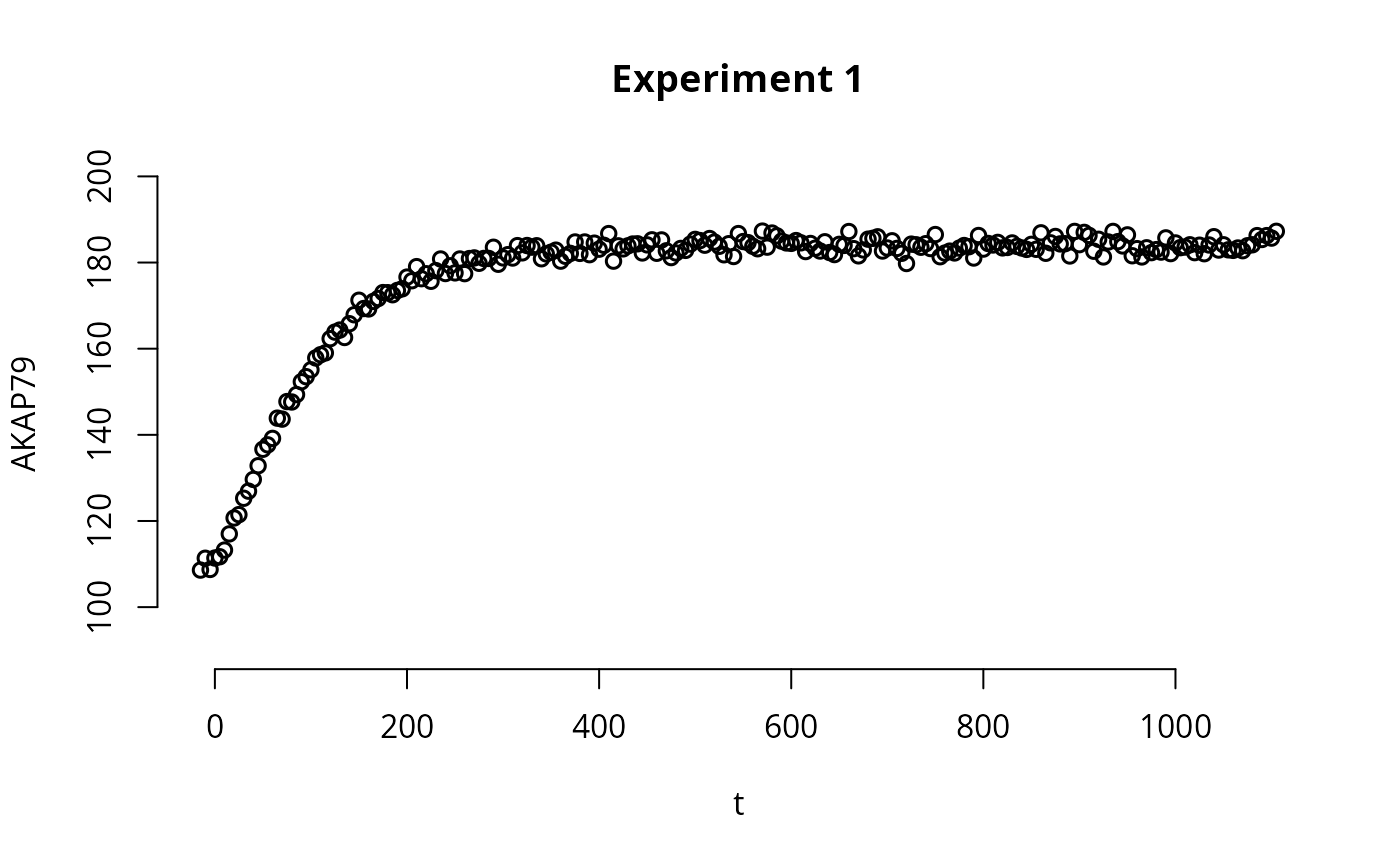
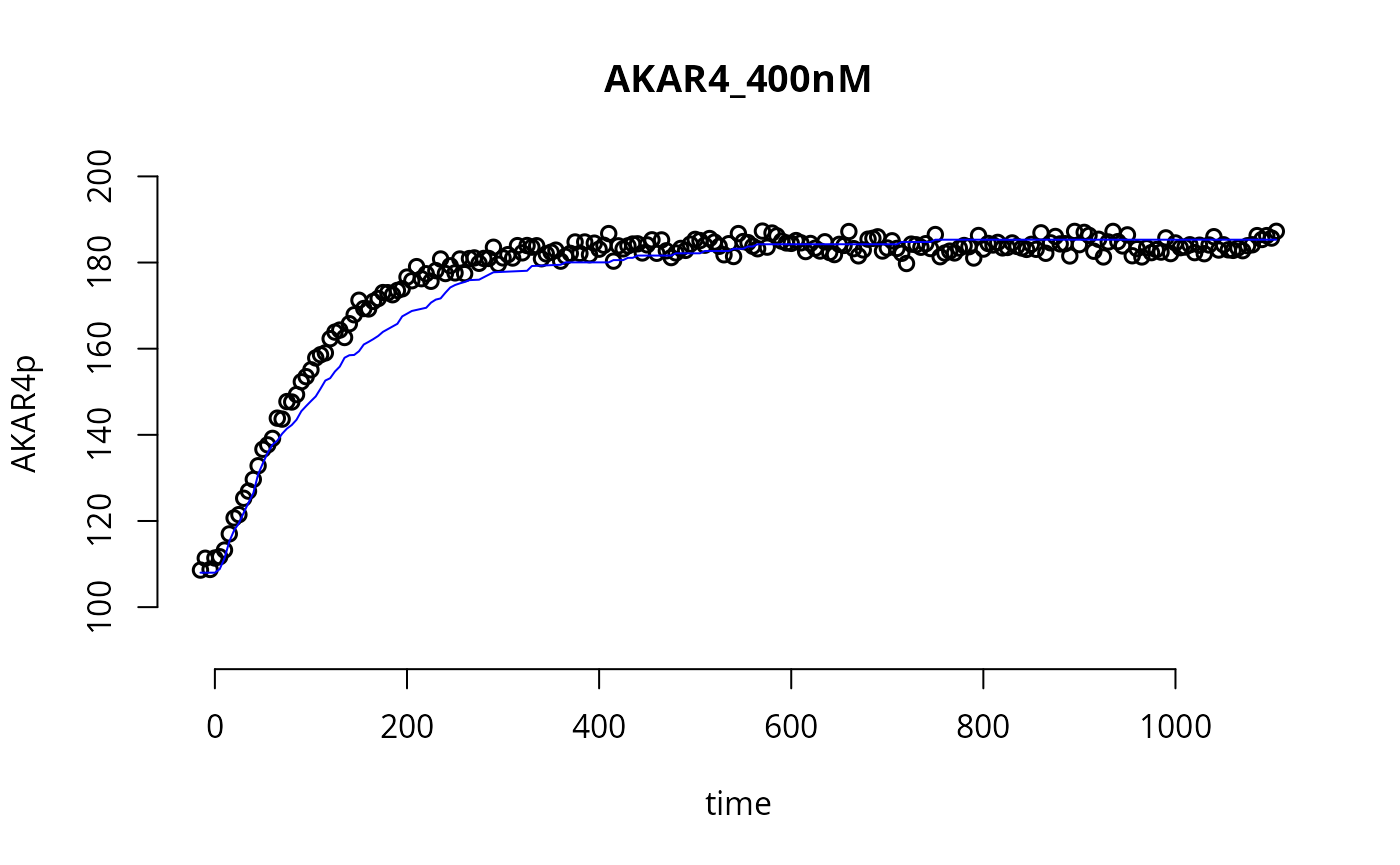
updated the simAKAR4stochastic article with internal simulator

diff --git a/docs/articles/simAKAR4stochastic.html b/docs/articles/simAKAR4stochastic.html
@@ -7,14 +7,13 @@
 <meta name="viewport" content="width=device-width, initial-scale=1, shrink-to-fit=no">
 <meta name="description" content="uqsa">
 <title>Simulation of a Stochastic Model for the AKAR4 reaction network • uqsa</title>
-<script src="../deps/jquery-3.6.0/jquery-3.6.0.min.js"></script><meta name="viewport" content="width=device-width, initial-scale=1, shrink-to-fit=no">
+<script src="../deps/jquery-3.6.1/jquery-3.6.1.min.js"></script><meta name="viewport" content="width=device-width, initial-scale=1, shrink-to-fit=no">
 <link href="../deps/bootstrap-5.3.1/bootstrap.min.css" rel="stylesheet">
 <script src="../deps/bootstrap-5.3.1/bootstrap.bundle.min.js"></script><!-- Font Awesome icons --><link rel="stylesheet" href="https://cdnjs.cloudflare.com/ajax/libs/font-awesome/5.12.1/css/all.min.css" integrity="sha256-mmgLkCYLUQbXn0B1SRqzHar6dCnv9oZFPEC1g1cwlkk=" crossorigin="anonymous">
 <link rel="stylesheet" href="https://cdnjs.cloudflare.com/ajax/libs/font-awesome/5.12.1/css/v4-shims.min.css" integrity="sha256-wZjR52fzng1pJHwx4aV2AO3yyTOXrcDW7jBpJtTwVxw=" crossorigin="anonymous">
-<!-- bootstrap-toc --><script src="https://cdn.jsdelivr.net/gh/afeld/bootstrap-toc@v1.0.1/dist/bootstrap-toc.min.js" integrity="sha256-4veVQbu7//Lk5TSmc7YV48MxtMy98e26cf5MrgZYnwo=" crossorigin="anonymous"></script><!-- headroom.js --><script src="https://cdnjs.cloudflare.com/ajax/libs/headroom/0.11.0/headroom.min.js" integrity="sha256-AsUX4SJE1+yuDu5+mAVzJbuYNPHj/WroHuZ8Ir/CkE0=" crossorigin="anonymous"></script><script src="https://cdnjs.cloudflare.com/ajax/libs/headroom/0.11.0/jQuery.headroom.min.js" integrity="sha256-ZX/yNShbjqsohH1k95liqY9Gd8uOiE1S4vZc+9KQ1K4=" crossorigin="anonymous"></script><!-- clipboard.js --><script src="https://cdnjs.cloudflare.com/ajax/libs/clipboard.js/2.0.11/clipboard.min.js" integrity="sha512-7O5pXpc0oCRrxk8RUfDYFgn0nO1t+jLuIOQdOMRp4APB7uZ4vSjspzp5y6YDtDs4VzUSTbWzBFZ/LKJhnyFOKw==" crossorigin="anonymous" referrerpolicy="no-referrer"></script><!-- search --><script src="https://cdnjs.cloudflare.com/ajax/libs/fuse.js/6.4.6/fuse.js" integrity="sha512-zv6Ywkjyktsohkbp9bb45V6tEMoWhzFzXis+LrMehmJZZSys19Yxf1dopHx7WzIKxr5tK2dVcYmaCk2uqdjF4A==" crossorigin="anonymous"></script><script src="https://cdnjs.cloudflare.com/ajax/libs/autocomplete.js/0.38.0/autocomplete.jquery.min.js" integrity="sha512-GU9ayf+66Xx2TmpxqJpliWbT5PiGYxpaG8rfnBEk1LL8l1KGkRShhngwdXK1UgqhAzWpZHSiYPc09/NwDQIGyg==" crossorigin="anonymous"></script><script src="https://cdnjs.cloudflare.com/ajax/libs/mark.js/8.11.1/mark.min.js" integrity="sha512-5CYOlHXGh6QpOFA/TeTylKLWfB3ftPsde7AnmhuitiTX4K5SqCLBeKro6sPS8ilsz1Q4NRx3v8Ko2IBiszzdww==" crossorigin="anonymous"></script><!-- pkgdown --><script src="../pkgdown.js"></script><meta property="og:title" content="Simulation of a Stochastic Model for the AKAR4 reaction network">
+<!-- bootstrap-toc --><script src="https://cdn.jsdelivr.net/gh/afeld/bootstrap-toc@v1.0.1/dist/bootstrap-toc.min.js" integrity="sha256-4veVQbu7//Lk5TSmc7YV48MxtMy98e26cf5MrgZYnwo=" crossorigin="anonymous"></script><!-- headroom.js --><script src="https://cdnjs.cloudflare.com/ajax/libs/headroom/0.11.0/headroom.min.js" integrity="sha256-AsUX4SJE1+yuDu5+mAVzJbuYNPHj/WroHuZ8Ir/CkE0=" crossorigin="anonymous"></script><script src="https://cdnjs.cloudflare.com/ajax/libs/headroom/0.11.0/jQuery.headroom.min.js" integrity="sha256-ZX/yNShbjqsohH1k95liqY9Gd8uOiE1S4vZc+9KQ1K4=" crossorigin="anonymous"></script><!-- clipboard.js --><script src="https://cdnjs.cloudflare.com/ajax/libs/clipboard.js/2.0.6/clipboard.min.js" integrity="sha256-inc5kl9MA1hkeYUt+EC3BhlIgyp/2jDIyBLS6k3UxPI=" crossorigin="anonymous"></script><!-- search --><script src="https://cdnjs.cloudflare.com/ajax/libs/fuse.js/6.4.6/fuse.js" integrity="sha512-zv6Ywkjyktsohkbp9bb45V6tEMoWhzFzXis+LrMehmJZZSys19Yxf1dopHx7WzIKxr5tK2dVcYmaCk2uqdjF4A==" crossorigin="anonymous"></script><script src="https://cdnjs.cloudflare.com/ajax/libs/autocomplete.js/0.38.0/autocomplete.jquery.min.js" integrity="sha512-GU9ayf+66Xx2TmpxqJpliWbT5PiGYxpaG8rfnBEk1LL8l1KGkRShhngwdXK1UgqhAzWpZHSiYPc09/NwDQIGyg==" crossorigin="anonymous"></script><script src="https://cdnjs.cloudflare.com/ajax/libs/mark.js/8.11.1/mark.min.js" integrity="sha512-5CYOlHXGh6QpOFA/TeTylKLWfB3ftPsde7AnmhuitiTX4K5SqCLBeKro6sPS8ilsz1Q4NRx3v8Ko2IBiszzdww==" crossorigin="anonymous"></script><!-- pkgdown --><script src="../pkgdown.js"></script><meta property="og:title" content="Simulation of a Stochastic Model for the AKAR4 reaction network">
 <meta property="og:description" content="uqsa">
-<!-- mathjax --><script src="https://cdnjs.cloudflare.com/ajax/libs/mathjax/2.7.5/MathJax.js" integrity="sha256-nvJJv9wWKEm88qvoQl9ekL2J+k/RWIsaSScxxlsrv8k=" crossorigin="anonymous"></script><script src="https://cdnjs.cloudflare.com/ajax/libs/mathjax/2.7.5/config/TeX-AMS-MML_HTMLorMML.js" integrity="sha256-84DKXVJXs0/F8OTMzX4UR909+jtl4G7SPypPavF+GfA=" crossorigin="anonymous"></script><!--[if lt IE 9]>
-<script src="https://oss.maxcdn.com/html5shiv/3.7.3/html5shiv.min.js"></script>
+<!-- mathjax --><script src="file:///usr/share/javascript/mathjax/MathJax.js" integrity="sha256-nvJJv9wWKEm88qvoQl9ekL2J+k/RWIsaSScxxlsrv8k=" crossorigin="anonymous"></script><script src="https://cdnjs.cloudflare.com/ajax/libs/mathjax/2.7.5/config/TeX-AMS-MML_HTMLorMML.js" integrity="sha256-84DKXVJXs0/F8OTMzX4UR909+jtl4G7SPypPavF+GfA=" crossorigin="anonymous"></script><!--[if lt IE 9]>
 <script src="https://oss.maxcdn.com/respond/1.4.2/respond.min.js"></script>
 <![endif]-->
 </head>
@@ -22,7 +21,7 @@
     <a href="#main" class="visually-hidden-focusable">Skip to contents</a>
     
 
-    <nav class="navbar fixed-top navbar-light navbar-expand-lg bg-light" data-bs-theme="light"><div class="container">
+    <nav class="navbar fixed-top navbar-light navbar-expand-lg bg-light"><div class="container">
     
     <a class="navbar-brand me-2" href="../index.html">uqsa</a>
 
@@ -177,9 +176,7 @@ the <a href="user_model.html">user model</a> article.</p>
 <span><span class="co">#&gt;     0.2     0.0     0.0     0.4</span></span>
 <span></span>
 <span><span class="co"># pick parameters for simulation</span></span>
-<span><span class="va">p</span> <span class="op">&lt;-</span> <span class="va">SBtab</span><span class="op">$</span><span class="va">Parameter</span><span class="op">[[</span><span class="st">"!DefaultValue"</span><span class="op">]</span><span class="op">]</span></span>
-<span><span class="va">par_names</span> <span class="op">&lt;-</span> <span class="fu"><a href="https://rdrr.io/r/base/colnames.html" class="external-link">rownames</a></span><span class="op">(</span><span class="va">SBtab</span><span class="op">$</span><span class="va">Parameter</span><span class="op">)</span></span>
-<span><span class="fu"><a href="https://rdrr.io/r/base/names.html" class="external-link">names</a></span><span class="op">(</span><span class="va">p</span><span class="op">)</span> <span class="op">&lt;-</span> <span class="va">par_names</span></span>
+<span><span class="va">p</span> <span class="op">&lt;-</span> <span class="fu">SBtabVFGEN</span><span class="fu">::</span><span class="fu"><a href="https://rdrr.io/pkg/SBtabVFGEN/man/sbtab_quantity.html" class="external-link">sbtab_quantity</a></span><span class="op">(</span><span class="va">SBtab</span><span class="op">$</span><span class="va">Parameter</span><span class="op">)</span></span>
 <span><span class="fu"><a href="https://rdrr.io/r/base/print.html" class="external-link">print</a></span><span class="op">(</span><span class="va">p</span><span class="op">)</span></span>
 <span><span class="co">#&gt; kf_C_AKAR4 kb_C_AKAR4 kcat_AKARp </span></span>
 <span><span class="co">#&gt;      0.018      0.106     10.200</span></span></code></pre></div>
@@ -192,45 +189,97 @@ the <a href="user_model.html">user model</a> article.</p>
 experiment <code>e</code> (i.e., same initial conditions, same inputs),
 but for user supplied parameters.</p>
 <div class="sourceCode" id="cb4"><pre class="downlit sourceCode r">
-<code class="sourceCode R"><span><span class="va">exp_ind</span> <span class="op">&lt;-</span> <span class="fl">1</span> <span class="co">#index of the experiment to consider</span></span>
-<span><span class="va">e</span> <span class="op">&lt;-</span> <span class="va">experiments</span><span class="op">[</span><span class="va">exp_ind</span><span class="op">]</span></span>
-<span></span>
-<span><span class="co"># generate a function (s) that simulates a trajectory given a parameter in input</span></span>
-<span><span class="va">s</span> <span class="op">&lt;-</span> <span class="fu"><a href="../reference/simulator.stoch.html">simulator.stoch</a></span><span class="op">(</span>experiment <span class="op">=</span> <span class="va">e</span>, model.tab <span class="op">=</span> <span class="va">SBtab</span>, vol <span class="op">=</span> <span class="fl">4e-16</span>, nStochSim <span class="op">=</span> <span class="fl">3</span>, outputFunction<span class="op">=</span><span class="va">AKAR4_func</span><span class="op">)</span></span>
+<code class="sourceCode R"><span><span class="co"># generate a function (s) that simulates a trajectory given a parameter in input</span></span>
+<span><span class="va">ssa2</span> <span class="op">&lt;-</span> <span class="fu"><a href="../reference/simulator.stoch.html">simulator.stoch</a></span><span class="op">(</span><span class="va">experiments</span><span class="op">[</span><span class="fl">1</span><span class="op">]</span>, model.tab <span class="op">=</span> <span class="va">SBtab</span>, vol <span class="op">=</span> <span class="fl">4e-16</span>, nStochSim <span class="op">=</span> <span class="fl">3</span>, outputFunction<span class="op">=</span><span class="va">AKAR4_func</span><span class="op">)</span></span>
 <span><span class="co"># vol indicates the volume in m^3 where the reactions take place</span></span>
 <span><span class="co"># nStochSim indicates how many times we simulate the stochastic model; the output trajectory is the average of all (in this case nStochSim = 3) the simulated trajectories</span></span>
 <span></span>
 <span><span class="co"># simulate a trajectory (y) given parameter p</span></span>
-<span><span class="va">y</span> <span class="op">&lt;-</span> <span class="fu">s</span><span class="op">(</span><span class="va">p</span><span class="op">)</span></span></code></pre></div>
+<span><span class="va">y_ssa2</span> <span class="op">&lt;-</span> <span class="fu">ssa2</span><span class="op">(</span><span class="va">p</span><span class="op">)</span></span></code></pre></div>
 </div>
 <div class="section level2">
 <h2 id="plot">Plot<a class="anchor" aria-label="anchor" href="#plot"></a>
 </h2>
 <div class="sourceCode" id="cb5"><pre class="downlit sourceCode r">
 <code class="sourceCode R"><span><span class="fu"><a href="https://rdrr.io/r/graphics/par.html" class="external-link">par</a></span><span class="op">(</span>bty<span class="op">=</span><span class="st">'n'</span>,xaxp<span class="op">=</span><span class="fu"><a href="https://rdrr.io/r/base/c.html" class="external-link">c</a></span><span class="op">(</span><span class="fl">80</span>,<span class="fl">120</span>,<span class="fl">4</span><span class="op">)</span><span class="op">)</span></span>
-<span><span class="fu"><a href="https://rdrr.io/r/graphics/plot.default.html" class="external-link">plot</a></span><span class="op">(</span><span class="va">e</span><span class="op">[[</span><span class="fl">1</span><span class="op">]</span><span class="op">]</span><span class="op">$</span><span class="va">outputTimes</span>, <span class="va">e</span><span class="op">[[</span><span class="fl">1</span><span class="op">]</span><span class="op">]</span><span class="op">$</span><span class="va">outputValues</span><span class="op">$</span><span class="va">AKAR4pOUT</span>,ylim<span class="op">=</span><span class="fu"><a href="https://rdrr.io/r/base/c.html" class="external-link">c</a></span><span class="op">(</span><span class="fl">90</span>,<span class="fl">200</span><span class="op">)</span>, ylab<span class="op">=</span><span class="st">"AKAP79"</span>,</span>
-<span>     xlab<span class="op">=</span><span class="st">"t"</span>,</span>
-<span>     main<span class="op">=</span><span class="fu"><a href="https://rdrr.io/r/base/sprintf.html" class="external-link">sprintf</a></span><span class="op">(</span><span class="st">"Experiment %i"</span>,<span class="va">exp_ind</span><span class="op">)</span>,</span>
-<span>     lwd<span class="op">=</span><span class="fl">1.5</span><span class="op">)</span></span>
-<span><span class="fu"><a href="https://rdrr.io/r/graphics/lines.html" class="external-link">lines</a></span><span class="op">(</span><span class="va">e</span><span class="op">$</span><span class="va">outputTimes</span>, <span class="va">y</span><span class="op">$</span><span class="va">output</span>, col<span class="op">=</span><span class="st">"blue"</span><span class="op">)</span></span></code></pre></div>
+<span><span class="fu"><a href="https://rdrr.io/r/graphics/plot.default.html" class="external-link">plot</a></span><span class="op">(</span></span>
+<span>    <span class="va">experiments</span><span class="op">[[</span><span class="fl">1</span><span class="op">]</span><span class="op">]</span><span class="op">$</span><span class="va">outputTimes</span>,</span>
+<span>    <span class="va">experiments</span><span class="op">[[</span><span class="fl">1</span><span class="op">]</span><span class="op">]</span><span class="op">$</span><span class="va">outputValues</span><span class="op">$</span><span class="va">AKAR4pOUT</span>,</span>
+<span>    ylim<span class="op">=</span><span class="fu"><a href="https://rdrr.io/r/base/c.html" class="external-link">c</a></span><span class="op">(</span><span class="fl">90</span>,<span class="fl">200</span><span class="op">)</span>, ylab<span class="op">=</span><span class="st">"AKAR4p"</span>, xlab<span class="op">=</span><span class="st">"time"</span>,</span>
+<span>    main<span class="op">=</span><span class="fu"><a href="https://rdrr.io/r/base/names.html" class="external-link">names</a></span><span class="op">(</span><span class="va">experiments</span><span class="op">)</span><span class="op">[</span><span class="fl">1</span><span class="op">]</span>,</span>
+<span>    lwd<span class="op">=</span><span class="fl">1.5</span><span class="op">)</span></span>
+<span><span class="fu"><a href="https://rdrr.io/r/graphics/lines.html" class="external-link">lines</a></span><span class="op">(</span><span class="va">experiments</span><span class="op">[[</span><span class="fl">1</span><span class="op">]</span><span class="op">]</span><span class="op">$</span><span class="va">outputTimes</span>, <span class="fu"><a href="https://rdrr.io/r/base/numeric.html" class="external-link">as.numeric</a></span><span class="op">(</span><span class="va">y_ssa2</span><span class="op">[[</span><span class="fl">1</span><span class="op">]</span><span class="op">]</span><span class="op">$</span><span class="va">output</span><span class="op">)</span>, col<span class="op">=</span><span class="st">"blue"</span><span class="op">)</span></span></code></pre></div>
 <p><img src="simAKAR4stochastic_files/figure-html/plotting-1.png" width="700"></p>
 </div>
 <div class="section level2">
 <h2 id="show-results-via-ggplot2">Show Results via <code>ggplot2</code><a class="anchor" aria-label="anchor" href="#show-results-via-ggplot2"></a>
 </h2>
 <div class="sourceCode" id="cb6"><pre class="downlit sourceCode r">
-<code class="sourceCode R"><span><span class="kw"><a href="https://rdrr.io/r/base/library.html" class="external-link">require</a></span><span class="op">(</span><span class="va"><a href="https://ggplot2.tidyverse.org" class="external-link">ggplot2</a></span><span class="op">)</span></span>
-<span><span class="co">#&gt; Loading required package: ggplot2</span></span>
-<span></span>
-<span><span class="va">D</span><span class="op">&lt;-</span><span class="fu"><a href="https://rdrr.io/r/base/data.frame.html" class="external-link">data.frame</a></span><span class="op">(</span>time<span class="op">=</span><span class="va">experiments</span><span class="op">[[</span><span class="va">exp_ind</span><span class="op">]</span><span class="op">]</span><span class="op">$</span><span class="va">outputTime</span>,</span>
-<span>              AKAP79<span class="op">=</span><span class="va">experiments</span><span class="op">[[</span><span class="va">exp_ind</span><span class="op">]</span><span class="op">]</span><span class="op">$</span><span class="va">outputValues</span><span class="op">$</span><span class="va">AKAR4pOUT</span>,</span>
-<span>              AKAP79ERR<span class="op">=</span><span class="va">experiments</span><span class="op">[[</span><span class="va">exp_ind</span><span class="op">]</span><span class="op">]</span><span class="op">$</span><span class="va">errorValues</span><span class="op">$</span><span class="va">AKAR4pOUT</span>,</span>
-<span>              sim<span class="op">=</span><span class="va">y</span><span class="op">[[</span><span class="fl">1</span><span class="op">]</span><span class="op">]</span><span class="op">$</span><span class="va">output</span><span class="op">)</span></span>
+<code class="sourceCode R"><span><span class="kw">if</span> <span class="op">(</span><span class="kw"><a href="https://rdrr.io/r/base/library.html" class="external-link">require</a></span><span class="op">(</span><span class="va"><a href="https://ggplot2.tidyverse.org" class="external-link">ggplot2</a></span><span class="op">)</span><span class="op">)</span><span class="op">{</span></span>
+<span><span class="va">D</span><span class="op">&lt;-</span><span class="fu"><a href="https://rdrr.io/r/base/data.frame.html" class="external-link">data.frame</a></span><span class="op">(</span>time<span class="op">=</span><span class="va">experiments</span><span class="op">[[</span><span class="fl">1</span><span class="op">]</span><span class="op">]</span><span class="op">$</span><span class="va">outputTime</span>,</span>
+<span>              AKAR4p<span class="op">=</span><span class="va">experiments</span><span class="op">[[</span><span class="fl">1</span><span class="op">]</span><span class="op">]</span><span class="op">$</span><span class="va">outputValues</span><span class="op">$</span><span class="va">AKAR4pOUT</span>,</span>
+<span>              AKAR4pERR<span class="op">=</span><span class="va">experiments</span><span class="op">[[</span><span class="fl">1</span><span class="op">]</span><span class="op">]</span><span class="op">$</span><span class="va">errorValues</span><span class="op">$</span><span class="va">AKAR4pOUT</span>,</span>
+<span>              sim<span class="op">=</span><span class="va">y_ssa2</span><span class="op">[[</span><span class="fl">1</span><span class="op">]</span><span class="op">]</span><span class="op">$</span><span class="va">output</span><span class="op">)</span></span>
 <span><span class="fu"><a href="https://ggplot2.tidyverse.org/reference/ggplot.html" class="external-link">ggplot</a></span><span class="op">(</span><span class="va">D</span><span class="op">)</span> <span class="op">+</span></span>
-<span>  <span class="fu"><a href="https://ggplot2.tidyverse.org/reference/geom_linerange.html" class="external-link">geom_linerange</a></span><span class="op">(</span>mapping<span class="op">=</span><span class="fu"><a href="https://ggplot2.tidyverse.org/reference/aes.html" class="external-link">aes</a></span><span class="op">(</span>x<span class="op">=</span><span class="va">time</span>,y<span class="op">=</span><span class="va">AKAP79</span>,ymin<span class="op">=</span><span class="va">AKAP79</span><span class="op">-</span><span class="va">AKAP79ERR</span>,ymax<span class="op">=</span><span class="va">AKAP79</span><span class="op">+</span><span class="va">AKAP79ERR</span><span class="op">)</span>,na.rm<span class="op">=</span><span class="cn">TRUE</span><span class="op">)</span> <span class="op">+</span></span>
-<span>  <span class="fu"><a href="https://ggplot2.tidyverse.org/reference/geom_point.html" class="external-link">geom_point</a></span><span class="op">(</span>mapping<span class="op">=</span><span class="fu"><a href="https://ggplot2.tidyverse.org/reference/aes.html" class="external-link">aes</a></span><span class="op">(</span>x<span class="op">=</span><span class="va">time</span>,y<span class="op">=</span><span class="va">AKAP79</span><span class="op">)</span>,na.rm<span class="op">=</span><span class="cn">TRUE</span><span class="op">)</span> <span class="op">+</span></span>
-<span>  <span class="fu"><a href="https://ggplot2.tidyverse.org/reference/geom_path.html" class="external-link">geom_line</a></span><span class="op">(</span>mapping<span class="op">=</span><span class="fu"><a href="https://ggplot2.tidyverse.org/reference/aes.html" class="external-link">aes</a></span><span class="op">(</span>x<span class="op">=</span><span class="va">time</span>,y<span class="op">=</span><span class="va">sim</span><span class="op">)</span>,color<span class="op">=</span><span class="st">"purple"</span>,lwd<span class="op">=</span><span class="fl">1.2</span><span class="op">)</span></span></code></pre></div>
-<p><img src="simAKAR4stochastic_files/figure-html/ggplot-1.png" width="700"></p>
+<span>  <span class="fu"><a href="https://ggplot2.tidyverse.org/reference/geom_linerange.html" class="external-link">geom_linerange</a></span><span class="op">(</span>mapping<span class="op">=</span><span class="fu"><a href="https://ggplot2.tidyverse.org/reference/aes.html" class="external-link">aes</a></span><span class="op">(</span>x<span class="op">=</span><span class="va">time</span>,y<span class="op">=</span><span class="va">AKAR4p</span>,ymin<span class="op">=</span><span class="va">AKAR4p</span><span class="op">-</span><span class="va">AKAR4pERR</span>,ymax<span class="op">=</span><span class="va">AKAR4p</span><span class="op">+</span><span class="va">AKAR4pERR</span><span class="op">)</span>,na.rm<span class="op">=</span><span class="cn">TRUE</span><span class="op">)</span> <span class="op">+</span></span>
+<span>  <span class="fu"><a href="https://ggplot2.tidyverse.org/reference/geom_point.html" class="external-link">geom_point</a></span><span class="op">(</span>mapping<span class="op">=</span><span class="fu"><a href="https://ggplot2.tidyverse.org/reference/aes.html" class="external-link">aes</a></span><span class="op">(</span>x<span class="op">=</span><span class="va">time</span>,y<span class="op">=</span><span class="va">AKAR4p</span><span class="op">)</span>,na.rm<span class="op">=</span><span class="cn">TRUE</span><span class="op">)</span> <span class="op">+</span></span>
+<span>  <span class="fu"><a href="https://ggplot2.tidyverse.org/reference/geom_path.html" class="external-link">geom_line</a></span><span class="op">(</span>mapping<span class="op">=</span><span class="fu"><a href="https://ggplot2.tidyverse.org/reference/aes.html" class="external-link">aes</a></span><span class="op">(</span>x<span class="op">=</span><span class="va">time</span>,y<span class="op">=</span><span class="va">sim</span><span class="op">)</span>,color<span class="op">=</span><span class="st">"purple"</span>,lwd<span class="op">=</span><span class="fl">1.2</span><span class="op">)</span></span>
+<span><span class="op">}</span></span>
+<span><span class="co">#&gt; Loading required package: ggplot2</span></span></code></pre></div>
+<p><img src="simAKAR4stochastic_files/figure-html/ggplot2-1.png" width="700"></p>
+</div>
+<div class="section level2">
+<h2 id="built-in-simulator">Built-in simulator<a class="anchor" aria-label="anchor" href="#built-in-simulator"></a>
+</h2>
+<p>This package (<code>uqsa</code>) has a built-in stochastic simulator
+which assumes that the model in question comes from an SBtab file and is
+formulated with concentrations and kinetic laws.</p>
+<p>We auto-generate C code, which uses the kinetic laws, but rescales
+all parameters internally to have the unit <code>1/s</code> and all
+compound species are rescaled to be in particle counts. So, the internal
+simulator can be used with the list of experiments that we use for ODE
+models, with no changes.</p>
+<div class="sourceCode" id="cb7"><pre class="downlit sourceCode r">
+<code class="sourceCode R"><span><span class="va">C</span> <span class="op">&lt;-</span> <span class="fu"><a href="../reference/generateGillespieCode.html">generateGillespieCode</a></span><span class="op">(</span><span class="va">SBtab</span><span class="op">)</span></span>
+<span><span class="fu"><a href="https://rdrr.io/r/base/cat.html" class="external-link">cat</a></span><span class="op">(</span><span class="va">C</span>,sep<span class="op">=</span><span class="st">"\n"</span>,file<span class="op">=</span><span class="st">"AKAR4_st.c"</span><span class="op">)</span></span></code></pre></div>
+<p>We compile that model to a shared library:</p>
+<div class="sourceCode" id="cb8"><pre class="sourceCode sh"><code class="sourceCode bash"><span id="cb8-1"><a href="#cb8-1" tabindex="-1"></a><span class="fu">cc</span> <span class="at">-shared</span> <span class="at">-fPIC</span> <span class="at">-O2</span> <span class="at">-o</span> akar4-st.so AKAR4_st.c <span class="at">-lm</span></span></code></pre></div>
+<p>And next we simulate this compiled model:</p>
+<div class="sourceCode" id="cb9"><pre class="downlit sourceCode r">
+<code class="sourceCode R"><span><span class="va">st</span> <span class="op">&lt;-</span> <span class="fu">uqsa</span><span class="fu">::</span><span class="fu"><a href="../reference/simstoch.html">simstoch</a></span><span class="op">(</span><span class="va">experiments</span>,model.so<span class="op">=</span><span class="st">"./akar4-st.so"</span><span class="op">)</span></span>
+<span><span class="va">y</span> <span class="op">&lt;-</span> <span class="fu">st</span><span class="op">(</span><span class="va">p</span><span class="op">)</span></span></code></pre></div>
+<p>And also plot the results:</p>
+<div class="sourceCode" id="cb10"><pre class="downlit sourceCode r">
+<code class="sourceCode R"><span><span class="va">tm</span> <span class="op">&lt;-</span> <span class="va">experiments</span><span class="op">[[</span><span class="fl">1</span><span class="op">]</span><span class="op">]</span><span class="op">$</span><span class="va">outputTimes</span></span>
+<span><span class="va">ov</span> <span class="op">&lt;-</span> <span class="va">experiments</span><span class="op">[[</span><span class="fl">1</span><span class="op">]</span><span class="op">]</span><span class="op">$</span><span class="va">outputValues</span><span class="op">$</span><span class="va">AKAR4pOUT</span></span>
+<span><span class="va">ev</span> <span class="op">&lt;-</span> <span class="va">experiments</span><span class="op">[[</span><span class="fl">1</span><span class="op">]</span><span class="op">]</span><span class="op">$</span><span class="va">errorValues</span><span class="op">$</span><span class="va">AKAR4pOUT</span></span>
+<span><span class="fu"><a href="https://rdrr.io/r/graphics/par.html" class="external-link">par</a></span><span class="op">(</span>bty<span class="op">=</span><span class="st">"n"</span><span class="op">)</span></span>
+<span><span class="fu"><a href="https://rdrr.io/r/graphics/plot.default.html" class="external-link">plot</a></span><span class="op">(</span><span class="va">tm</span>,<span class="va">ov</span>,xlab<span class="op">=</span><span class="st">"time"</span>,ylab<span class="op">=</span><span class="st">"AKAR4p"</span>,main<span class="op">=</span><span class="fu"><a href="https://rdrr.io/r/base/names.html" class="external-link">names</a></span><span class="op">(</span><span class="va">experiments</span><span class="op">)</span><span class="op">[</span><span class="fl">1</span><span class="op">]</span>,ylim<span class="op">=</span><span class="fu"><a href="https://rdrr.io/r/base/c.html" class="external-link">c</a></span><span class="op">(</span><span class="fl">90</span>,<span class="fl">210</span><span class="op">)</span><span class="op">)</span></span>
+<span><span class="fu"><a href="https://rdrr.io/r/graphics/arrows.html" class="external-link">arrows</a></span><span class="op">(</span><span class="va">tm</span>,<span class="va">ov</span>,<span class="va">tm</span>,<span class="va">ov</span><span class="op">+</span><span class="va">ev</span>,angle<span class="op">=</span><span class="fl">90</span>,length<span class="op">=</span><span class="fl">0.02</span><span class="op">)</span></span>
+<span><span class="fu"><a href="https://rdrr.io/r/graphics/arrows.html" class="external-link">arrows</a></span><span class="op">(</span><span class="va">tm</span>,<span class="va">ov</span>,<span class="va">tm</span>,<span class="va">ov</span><span class="op">-</span><span class="va">ev</span>,angle<span class="op">=</span><span class="fl">90</span>,length<span class="op">=</span><span class="fl">0.02</span><span class="op">)</span></span>
+<span><span class="fu"><a href="https://rdrr.io/r/graphics/lines.html" class="external-link">lines</a></span><span class="op">(</span><span class="va">tm</span>,<span class="va">y</span><span class="op">[[</span><span class="fl">1</span><span class="op">]</span><span class="op">]</span><span class="op">$</span><span class="va">func</span><span class="op">[</span><span class="st">"AKAR4pOUT"</span>,<span class="op">]</span>,lwd<span class="op">=</span><span class="fl">2</span><span class="op">)</span></span></code></pre></div>
+<p><img src="simAKAR4stochastic_files/figure-html/plot_simstoch-1.png" width="700"></p>
+<div class="section level3">
+<h3 id="benchmark">Benchmark<a class="anchor" aria-label="anchor" href="#benchmark"></a>
+</h3>
+<p>Here we test which of the two simulates faster:</p>
+<div class="sourceCode" id="cb11"><pre class="downlit sourceCode r">
+<code class="sourceCode R"><span><span class="kw">if</span> <span class="op">(</span><span class="kw"><a href="https://rdrr.io/r/base/library.html" class="external-link">require</a></span><span class="op">(</span><span class="va"><a href="http://rbenchmark.googlecode.com" class="external-link">rbenchmark</a></span><span class="op">)</span><span class="op">)</span><span class="op">{</span></span>
+<span>    <span class="va">BM</span> <span class="op">&lt;-</span> <span class="fu"><a href="https://rdrr.io/pkg/rbenchmark/man/benchmark.html" class="external-link">benchmark</a></span><span class="op">(</span></span>
+<span>        GillespieSSA2 <span class="op">=</span> <span class="op">{</span><span class="va">y1</span><span class="op">&lt;-</span><span class="fu">ssa2</span><span class="op">(</span><span class="va">p</span><span class="op">)</span><span class="op">}</span>,</span>
+<span>        uqsa <span class="op">=</span> <span class="op">{</span><span class="va">y2</span> <span class="op">&lt;-</span> <span class="fu">st</span><span class="op">(</span><span class="va">p</span><span class="op">)</span><span class="op">}</span>,</span>
+<span>    replications <span class="op">=</span> <span class="fl">500</span></span>
+<span>    <span class="op">)</span></span>
+<span><span class="op">}</span></span>
+<span><span class="co">#&gt; Loading required package: rbenchmark</span></span>
+<span><span class="fu"><a href="https://rdrr.io/r/base/print.html" class="external-link">print</a></span><span class="op">(</span><span class="va">BM</span><span class="op">)</span></span>
+<span><span class="co">#&gt;            test replications elapsed relative user.self sys.self user.child</span></span>
+<span><span class="co">#&gt; 1 GillespieSSA2          500  43.866  111.053    43.640    0.204          0</span></span>
+<span><span class="co">#&gt; 2          uqsa          500   0.395    1.000     0.387    0.008          0</span></span>
+<span><span class="co">#&gt;   sys.child</span></span>
+<span><span class="co">#&gt; 1         0</span></span>
+<span><span class="co">#&gt; 2         0</span></span></code></pre></div>
+</div>
 </div>
   </main><aside class="col-md-3"><nav id="toc"><h2>On this page</h2>
     </nav></aside>
@@ -239,11 +288,13 @@ but for user supplied parameters.</p>
 
 
     <footer><div class="pkgdown-footer-left">
-  <p>Developed by Alexandra Jauhiainen, Olivia Eriksson, Federica Milinanni, Andrei Kramer.</p>
+  <p></p>
+<p>Developed by Alexandra Jauhiainen, Olivia Eriksson, Federica Milinanni, Andrei Kramer.</p>
 </div>
 
 <div class="pkgdown-footer-right">
-  <p>Site built with <a href="https://pkgdown.r-lib.org/" class="external-link">pkgdown</a> 2.0.9.</p>
+  <p></p>
+<p>Site built with <a href="https://pkgdown.r-lib.org/" class="external-link">pkgdown</a> 2.0.7.</p>
 </div>
 
     </footer>
